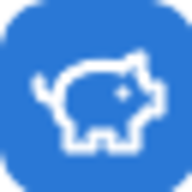
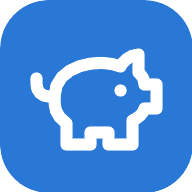
Corrige qualidade dos ícones do PWA e seletor de mês/ano
Os ícones (192/512/maskable) estavam sendo rasterizados em baixa
resolução antes de redimensionar, ficando borrados/pixelados — agora
o ImageMagick renderiza o SVG direto no tamanho final (-density
correta), ficando nítido em qualquer tamanho.

O seletor de mês trocou o input type=month nativo (sem suporte real no
Safari, por isso preso só nas setas) por um popover próprio, com
navegação de ano e grade dos 12 meses — funciona igual em qualquer
navegador.

diff --git a/src/components/dashboard/MonthSelector.tsx b/src/components/dashboard/MonthSelector.tsx
@@ -1,5 +1,22 @@
+import { useEffect, useRef, useState } from "react";
 import { ChevronLeft, ChevronRight } from "lucide-react";
 import { formatMonthLong } from "../../utils/date";
+import clsx from "../../utils/clsx";
+
+const MONTH_ABBR = [
+  "Jan",
+  "Fev",
+  "Mar",
+  "Abr",
+  "Mai",
+  "Jun",
+  "Jul",
+  "Ago",
+  "Set",
+  "Out",
+  "Nov",
+  "Dez",
+];
 
 export default function MonthSelector({
   monthKey,
@@ -12,33 +29,114 @@ export default function MonthSelector({
   onNext: () => void;
   onSelectMonth: (monthKey: string) => void;
 }) {
+  const [open, setOpen] = useState(false);
+  const [pickerYear, setPickerYear] = useState(() => Number(monthKey.slice(0, 4)));
+  const containerRef = useRef<HTMLDivElement>(null);
+
+  const selectedYear = Number(monthKey.slice(0, 4));
+  const selectedMonth = Number(monthKey.slice(5, 7));
+
+  const openPicker = () => {
+    setPickerYear(selectedYear);
+    setOpen(true);
+  };
+
+  useEffect(() => {
+    if (!open) return;
+    const onPointerDown = (e: MouseEvent) => {
+      if (containerRef.current && !containerRef.current.contains(e.target as Node)) {
+        setOpen(false);
+      }
+    };
+    const onKey = (e: KeyboardEvent) => {
+      if (e.key === "Escape") setOpen(false);
+    };
+    document.addEventListener("mousedown", onPointerDown);
+    document.addEventListener("keydown", onKey);
+    return () => {
+      document.removeEventListener("mousedown", onPointerDown);
+      document.removeEventListener("keydown", onKey);
+    };
+  }, [open]);
+
   return (
-    <div className="relative flex items-center gap-1 rounded-lg border border-ink-muted/30 px-1 py-1">
+    <div
+      ref={containerRef}
+      className="relative flex items-center gap-1 rounded-lg border border-ink-muted/30 px-1 py-1"
+    >
       <button
         onClick={onPrevious}
         aria-label="Mês anterior"
-        className="relative z-10 rounded-md p-1.5 text-ink-secondary-light dark:text-ink-secondary-dark hover:bg-black/5 dark:hover:bg-white/10"
+        className="rounded-md p-1.5 text-ink-secondary-light dark:text-ink-secondary-dark hover:bg-black/5 dark:hover:bg-white/10"
       >
         <ChevronLeft size={16} />
       </button>
-      <span className="pointer-events-none min-w-[140px] text-center text-sm font-medium text-ink-primary-light dark:text-ink-primary-dark">
+      <button
+        type="button"
+        onClick={() => (open ? setOpen(false) : openPicker())}
+        aria-haspopup="true"
+        aria-expanded={open}
+        className="min-w-[140px] rounded-md px-1 py-1 text-center text-sm font-medium text-ink-primary-light dark:text-ink-primary-dark hover:bg-black/5 dark:hover:bg-white/10"
+      >
         {formatMonthLong(monthKey)}
-      </span>
+      </button>
       <button
         onClick={onNext}
         aria-label="Próximo mês"
-        className="relative z-10 rounded-md p-1.5 text-ink-secondary-light dark:text-ink-secondary-dark hover:bg-black/5 dark:hover:bg-white/10"
+        className="rounded-md p-1.5 text-ink-secondary-light dark:text-ink-secondary-dark hover:bg-black/5 dark:hover:bg-white/10"
       >
         <ChevronRight size={16} />
       </button>
-      <input
-        type="month"
-        value={monthKey}
-        onChange={(e) => e.target.value && onSelectMonth(e.target.value)}
-        aria-label="Ir direto para um mês"
-        title="Ir direto para um mês"
-        className="absolute inset-0 z-0 cursor-pointer opacity-0"
-      />
+
+      {open && (
+        <div className="absolute left-0 top-full z-30 mt-2 w-64 rounded-lg border border-black/10 dark:border-white/10 bg-surface-light dark:bg-surface-dark p-3 shadow-lg">
+          <div className="flex items-center justify-between">
+            <button
+              type="button"
+              onClick={() => setPickerYear((y) => y - 1)}
+              aria-label="Ano anterior"
+              className="rounded-md p-1 text-ink-secondary-light dark:text-ink-secondary-dark hover:bg-black/5 dark:hover:bg-white/10"
+            >
+              <ChevronLeft size={14} />
+            </button>
+            <span className="text-sm font-semibold text-ink-primary-light dark:text-ink-primary-dark">
+              {pickerYear}
+            </span>
+            <button
+              type="button"
+              onClick={() => setPickerYear((y) => y + 1)}
+              aria-label="Próximo ano"
+              className="rounded-md p-1 text-ink-secondary-light dark:text-ink-secondary-dark hover:bg-black/5 dark:hover:bg-white/10"
+            >
+              <ChevronRight size={14} />
+            </button>
+          </div>
+          <div className="mt-2 grid grid-cols-4 gap-1">
+            {MONTH_ABBR.map((label, i) => {
+              const m = i + 1;
+              const isSelected = pickerYear === selectedYear && m === selectedMonth;
+              return (
+                <button
+                  type="button"
+                  key={label}
+                  onClick={() => {
+                    onSelectMonth(`${pickerYear}-${String(m).padStart(2, "0")}`);
+                    setOpen(false);
+                  }}
+                  className={clsx(
+                    "rounded-md py-1.5 text-xs font-medium transition-colors",
+                    isSelected
+                      ? "bg-series-1 text-white"
+                      : "text-ink-secondary-light dark:text-ink-secondary-dark hover:bg-black/5 dark:hover:bg-white/10",
+                  )}
+                >
+                  {label}
+                </button>
+              );
+            })}
+          </div>
+        </div>
+      )}
     </div>
   );
 }
